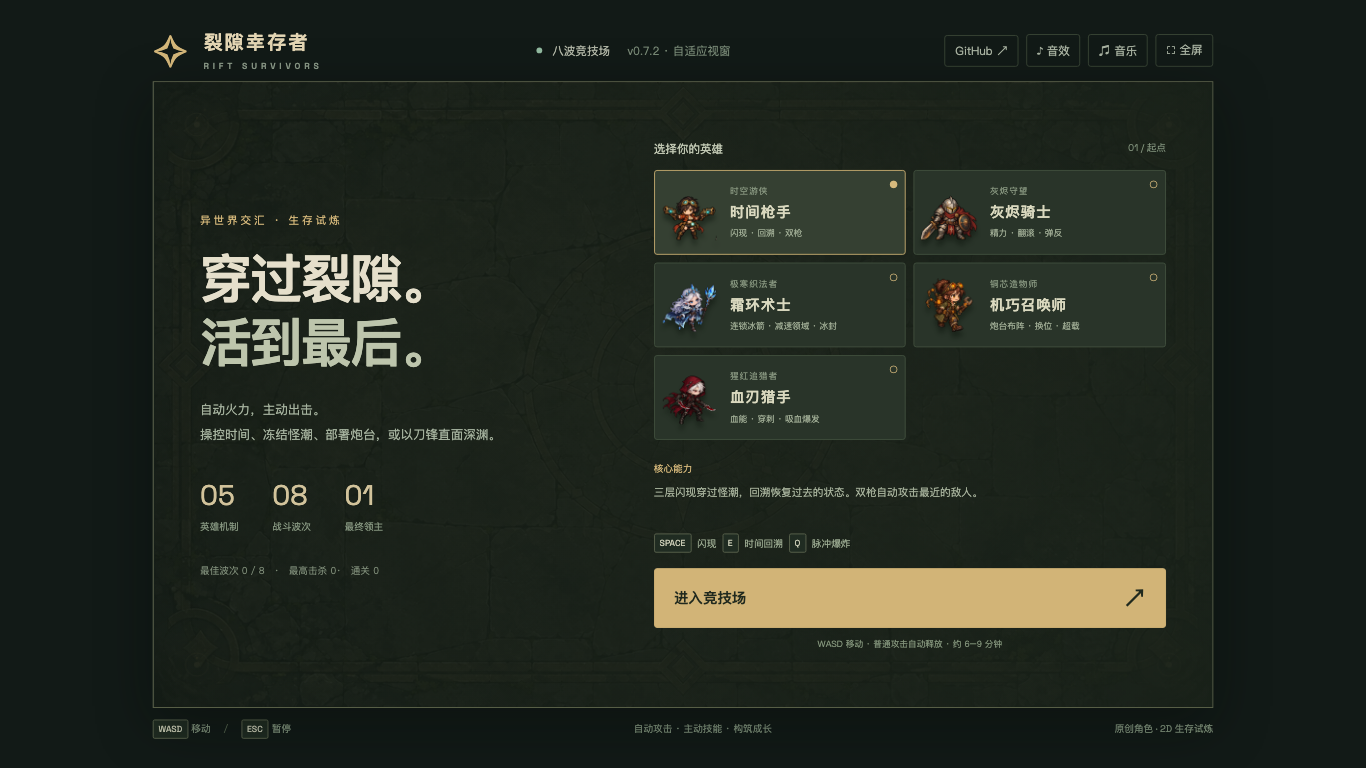
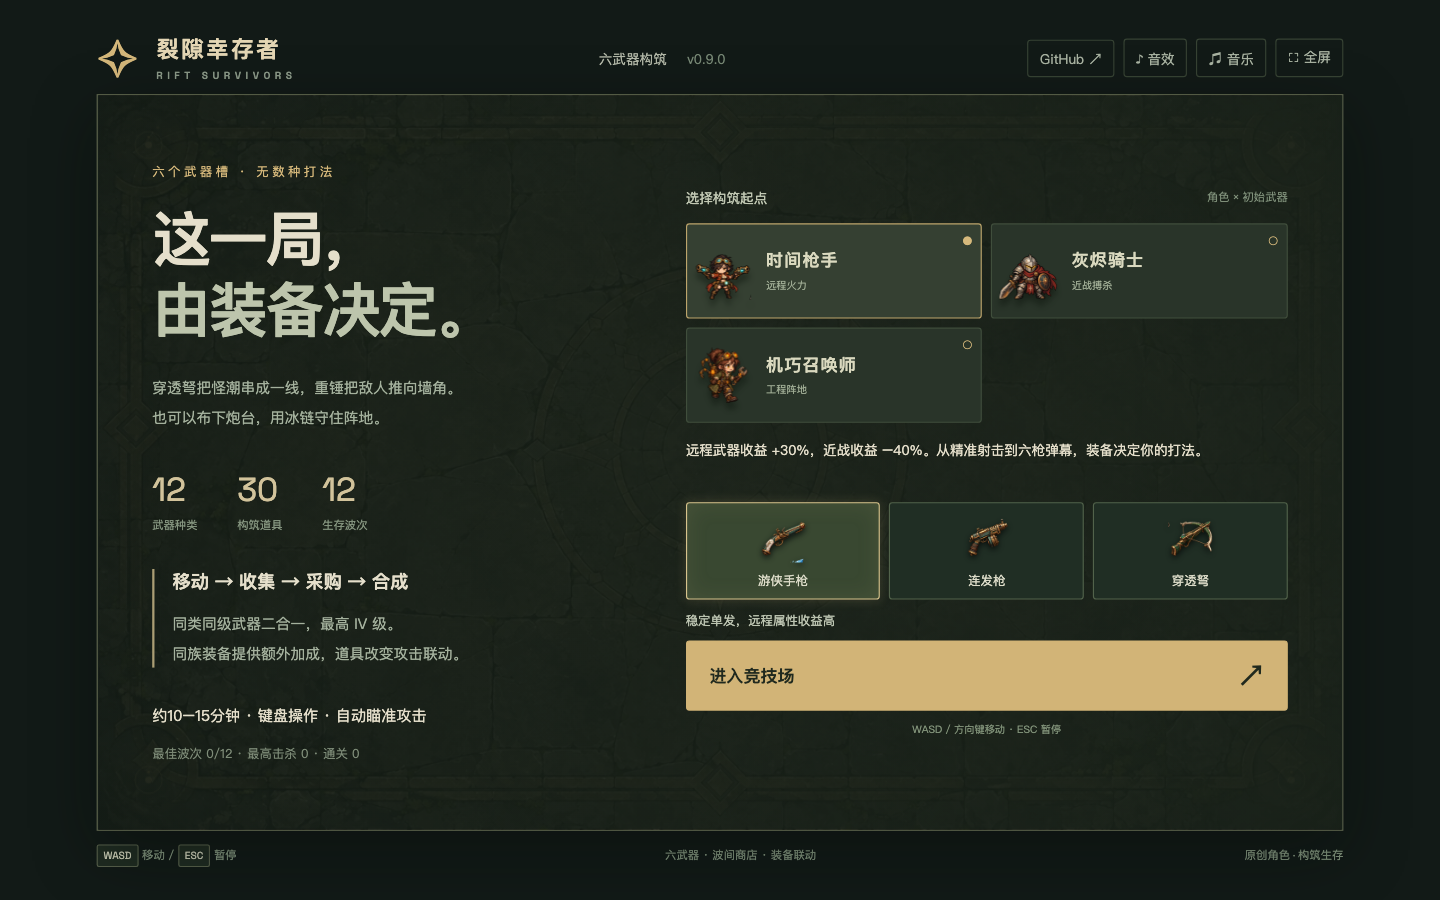
Refresh Rift Survivors six-weapon game preview

diff --git a/README.md b/README.md
@@ -10,7 +10,7 @@
 | 项目 | 预览 | 简介 | 链接 |
 |---|---|---|---|
 | 坠井者 · FALLWELL | <img width="320" alt="坠井者 FALLWELL Preview" src="./portfolio-fallwell.png"> | 四名角色、三种进化核心与遗物构筑的像素下落动作肉鸽，落地补弹、踩怪连击 | [Demo](https://fallwell.xiaosang.cc/) · [Repo](https://github.com/holynova/fallwell) |
-| 裂隙幸存者 · Rift Survivors | <img width="320" alt="Rift Survivors Preview" src="./portfolio-rift-survivors.png"> | 五英雄八波生存竞技场，主动技能、升级构筑与最终领主 | [Demo](https://rift-survivors.xiaosang.cc/) · [Repo](https://github.com/holynova/rift-survivors) |
+| 裂隙幸存者 · Rift Survivors | <img width="320" alt="Rift Survivors Preview" src="./portfolio-rift-survivors.png"> | 六武器构筑生存竞技场：三类角色、武器合成、30件道具、12波怪潮与原创配乐 | [Demo](https://rift-survivors.xiaosang.cc/) · [Repo](https://github.com/holynova/rift-survivors) |
 | 系统设计经典算法全景图解 · System Design Algorithms | <img width="320" alt="系统设计经典算法全景图解 Preview" src="./portfolio-system-design-algorithms-js.png"> | 基于 Alex Xu《系统设计面试》全 28 章的经典算法与数据结构纯原生 JS 实现，配矢量 SVG 架构图、Mermaid 时序流转与在线交互实验室 | [Demo](https://system-design-algorithms-js.xiaosang.cc/) · [Pages](https://holynova.github.io/system-design-algorithms-js/) · [Repo](https://github.com/holynova/system-design-algorithms-js) |
 | 图片画廊模板 · Image Gallery Template | <img width="320" alt="Image Gallery Template Preview" src="./portfolio-image-gallery-template.png"> | Astro + Sharp 图片优先模板：AI 根据主题与图片生成可发布画廊，内置压缩、校验、Umami 与静态部署 | [Demo](https://image-gallery-template.xiaosang.cc/) · [Pages](https://holynova.github.io/image-gallery-template/) · [Repo](https://github.com/holynova/image-gallery-template) |
 | 橡胶戳艺术印记 · Rubber Stamp Art Prints | <img width="320" alt="橡胶戳艺术印记 Preview" src="./portfolio-rubber-stamp-world-cities.png"> | 世界城市(30)、十二生肖(12)与二十四节气(24)共 66 枚复古手工多色纯印章艺术画廊 | [Demo](https://holynova.github.io/rubber-stamp-world-cities/) · [Repo](https://github.com/holynova/rubber-stamp-world-cities) |
